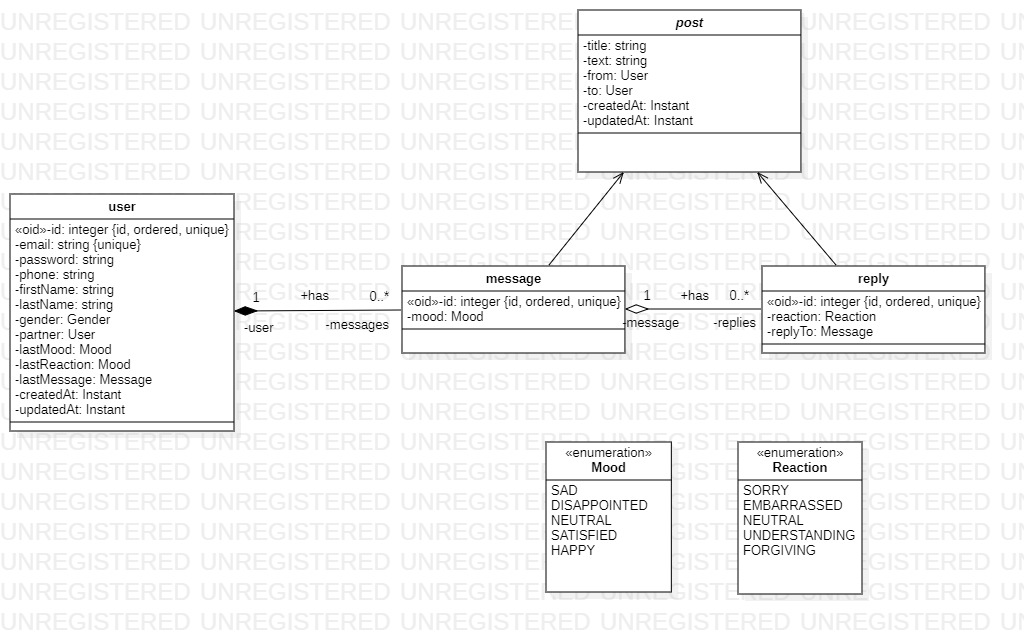
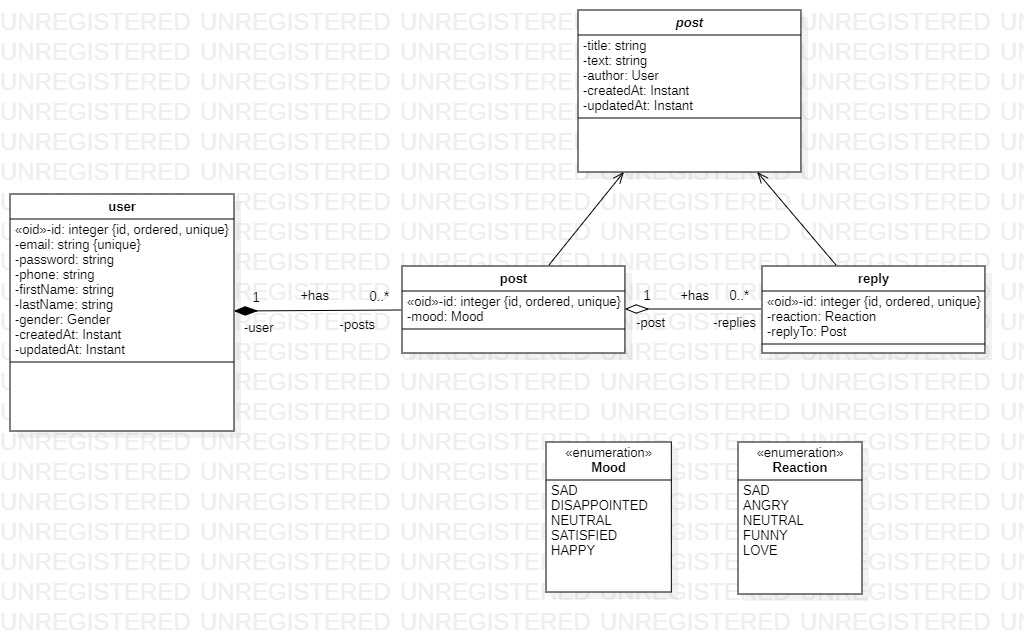
reply controller done

diff --git a/src/main/java/com/saurs/talktome/controllers/ReplyController.java b/src/main/java/com/saurs/talktome/controllers/ReplyController.java
@@ -1,0 +1,96 @@
+package com.saurs.talktome.controllers;
+
+import com.saurs.talktome.dtos.PostDTO;
+import com.saurs.talktome.dtos.ReplyDTO;
+import com.saurs.talktome.models.Post;
+import com.saurs.talktome.models.Reply;
+import com.saurs.talktome.repositories.PostRepository;
+import com.saurs.talktome.repositories.ReplyRepository;
+import com.saurs.talktome.services.PostService;
+import com.saurs.talktome.services.ReplyService;
+import org.springframework.beans.factory.annotation.Autowired;
+import org.springframework.data.domain.PageRequest;
+import org.springframework.http.ResponseEntity;
+import org.springframework.web.bind.annotation.*;
+import org.springframework.web.servlet.support.ServletUriComponentsBuilder;
+
+import java.net.URI;
+import java.util.List;
+
+@RestController
+@RequestMapping(value = "/replies")
+public class ReplyController {
+  
+  @Autowired
+  private ReplyService service;
+
+  @Autowired
+  private ReplyRepository repository;
+
+  @GetMapping
+  public ResponseEntity<List<ReplyDTO>> getAllReplies(@RequestParam(value = "page", defaultValue = "0") Integer page,
+                                                      @RequestParam(value = "size", defaultValue = "20") Integer size) {
+    List<ReplyDTO> replies = service.findAll(PageRequest.of(page, size));
+    return ResponseEntity.ok().body(replies);
+  }
+
+  @GetMapping("/{id}")
+  public ResponseEntity<ReplyDTO> getReplyById(@PathVariable Long id) {
+    ReplyDTO reply = service.findById(id);
+     if (reply == null) {
+      return ResponseEntity.notFound().build();
+     }
+     return ResponseEntity.ok().body(reply);
+  }
+
+  @GetMapping("/user/{userId}")
+  public ResponseEntity<List<ReplyDTO>> getRepliesFromUser(
+          @PathVariable Long userId,
+          @RequestParam(value = "page", defaultValue = "0") Integer page,
+          @RequestParam(value = "size", defaultValue = "20") Integer size) {
+    List<ReplyDTO> replies = service.findAllByAuthor(userId, PageRequest.of(page, size));
+     return ResponseEntity.ok().body(replies);
+  }
+
+  @GetMapping("/post/{postId}")
+  public ResponseEntity<List<ReplyDTO>> getRepliesOfPost(
+          @PathVariable Long postId,
+          @RequestParam(value = "page", defaultValue = "0") Integer page,
+          @RequestParam(value = "size", defaultValue = "20") Integer size) {
+    List<ReplyDTO> replies = service.findAllByPost(postId, PageRequest.of(page, size));
+    return ResponseEntity.ok().body(replies);
+  }
+
+  @PostMapping("/reply-to/{postId}")
+  public ResponseEntity<ReplyDTO> createReply(@RequestBody Reply reply, @PathVariable Long postId) {
+    // TODO get authenticated user
+    Reply newReply = service.addReply(reply, userId, postId);
+    URI uri = ServletUriComponentsBuilder
+    .fromCurrentRequest()
+    .path("/{userId}")
+    .buildAndExpand(newReply.getId())
+    .toUri();
+
+    ReplyDTO replyDto = repository.findById(newReply.getId()).map(ReplyDTO::converter).get();
+
+    return ResponseEntity.created(uri).body(replyDto);
+  }
+
+  @PutMapping("/{id}")
+  public ResponseEntity<ReplyDTO> updateReply(@RequestBody Reply reply, @PathVariable Long id) {
+    // TODO get authenticated user and check if it's him
+
+    Reply updatedReply = service.updateReply(reply, id);
+
+    ReplyDTO replyDto = repository.findById(updatedReply.getId()).map(ReplyDTO::converter).get();
+    return ResponseEntity.ok().body(replyDto);
+  }
+
+  @DeleteMapping("/{id}")
+  public ResponseEntity<Void> deleteReply(@PathVariable Long id) {
+    // TODO get authenticated user and check if it's him
+
+    service.deleteReply(id);
+    return ResponseEntity.noContent().build();
+  }
+}

diff --git a/src/main/java/com/saurs/talktome/controllers/PostController.java b/src/main/java/com/saurs/talktome/controllers/PostController.java
@@ -15,7 +15,7 @@ import com.saurs.talktome.repositories.PostRepository;
 import com.saurs.talktome.services.PostService;
 
 @RestController
-@RequestMapping(value = "/api/posts")
+@RequestMapping(value = "/posts")
 public class PostController {
   
   @Autowired
@@ -26,7 +26,7 @@ public class PostController {
 
   @GetMapping
   public ResponseEntity<List<PostDTO>> getAllPosts(@RequestParam(value = "page", defaultValue = "0") Integer page,
-                                                      @RequestParam(value = "size", defaultValue = "20") Integer size) {
+                                                   @RequestParam(value = "size", defaultValue = "20") Integer size) {
     List<PostDTO> posts = service.findAll(PageRequest.of(page, size));
     return ResponseEntity.ok().body(posts);
   }
@@ -40,16 +40,18 @@ public class PostController {
      return ResponseEntity.ok().body(post);
   }
 
-  @GetMapping("/sent/user/{userId}")
-  public ResponseEntity<List<PostDTO>> getPostsFromUser(@PathVariable Long userId,
-                                                           @RequestParam(value = "page", defaultValue = "0") Integer page,
-                                                           @RequestParam(value = "size", defaultValue = "20") Integer size) {
+  @GetMapping("/user/{userId}")
+  public ResponseEntity<List<PostDTO>> getPostsFromUser(
+          @PathVariable Long userId,
+          @RequestParam(value = "page", defaultValue = "0") Integer page,
+          @RequestParam(value = "size", defaultValue = "20") Integer size) {
     List<PostDTO> posts = service.findAllByAuthor(userId, PageRequest.of(page, size));
      return ResponseEntity.ok().body(posts);
   }
 
-  @PostMapping("/user/{userId}/post")
-  public ResponseEntity<PostDTO> createPost(@RequestBody Post post, @PathVariable Long userId) {
+  @PostMapping("/new")
+  public ResponseEntity<PostDTO> createPost(@RequestBody Post post) {
+    // TODO get authenticated user
     Post newPost = service.addPost(post, userId);
     URI uri = ServletUriComponentsBuilder
     .fromCurrentRequest()
@@ -57,21 +59,22 @@ public class PostController {
     .buildAndExpand(newPost.getId())
     .toUri();
 
-    PostDTO msgDto = repository.findById(newPost.getId()).map(PostDTO::converter).get();
+    PostDTO postDto = repository.findById(newPost.getId()).map(PostDTO::converter).get();
 
-    return ResponseEntity.created(uri).body(msgDto);
+    return ResponseEntity.created(uri).body(postDto);
   }
 
   @PutMapping("/{id}")
   public ResponseEntity<PostDTO> updatePost(@RequestBody Post post, @PathVariable Long id) {
+    // TODO get authenticated user and check if it's him
     Post updatedPost = service.updatePost(post, id);
-
-    PostDTO msgDto = repository.findById(updatedPost.getId()).map(PostDTO::converter).get();
-    return ResponseEntity.ok().body(msgDto);
+    PostDTO postDto = repository.findById(updatedPost.getId()).map(PostDTO::converter).get();
+    return ResponseEntity.ok().body(postDto);
   }
 
   @DeleteMapping("/{id}")
   public ResponseEntity<Void> deletePost(@PathVariable Long id) {
+    // TODO get authenticated user and check if it's him
     service.deletePost(id);
     return ResponseEntity.noContent().build();
   }

diff --git a/src/main/java/com/saurs/talktome/services/ReplyService.java b/src/main/java/com/saurs/talktome/services/ReplyService.java
@@ -1,9 +1,26 @@
 package com.saurs.talktome.services;
 
+import com.saurs.talktome.dtos.PostDTO;
+import com.saurs.talktome.dtos.ReplyDTO;
+import com.saurs.talktome.models.Post;
+import com.saurs.talktome.models.Reply;
+import com.saurs.talktome.models.User;
+import com.saurs.talktome.repositories.PostRepository;
+import com.saurs.talktome.repositories.UserRepository;
+import com.saurs.talktome.services.exceptions.DatabaseException;
+import com.saurs.talktome.services.exceptions.ObjectNotFoundException;
+import com.saurs.talktome.utils.ServiceUtils;
+import org.springframework.beans.BeanUtils;
 import org.springframework.beans.factory.annotation.Autowired;
+import org.springframework.dao.DataIntegrityViolationException;
+import org.springframework.data.domain.Pageable;
 import org.springframework.stereotype.Service;
 
 import com.saurs.talktome.repositories.ReplyRepository;
+
+import java.util.List;
+import java.util.Optional;
+import java.util.stream.Collectors;
 
 @Service
 public class ReplyService {
@@ -11,5 +28,50 @@ public class ReplyService {
   @Autowired
   ReplyRepository repository;
 
+  @Autowired
+  private UserRepository userRepository;
+
+  @Autowired
+  private PostRepository postRepository;
+
+  public List<ReplyDTO> findAll (Pageable pageable) {
+    return repository.findAll(pageable).stream().map(ReplyDTO::converter).collect(Collectors.toList());
+  }
+
+  public ReplyDTO findById(Long id) {
+    Optional<ReplyDTO> getReply = repository.findById(id).map(ReplyDTO::converter);
+    return getReply.orElseThrow(() -> new ObjectNotFoundException(id));
+  }
+
+  public List<ReplyDTO> findAllByAuthor(Long id, Pageable pageable) {
+    return repository.findAllByAuthorId(id, pageable).stream().map(ReplyDTO::converter).collect(Collectors.toList());
+  }
+
+  public List<ReplyDTO> findAllByPost(Long id, Pageable pageable) {
+    return repository.findAllByPostId(id, pageable).stream().map(ReplyDTO::converter).collect(Collectors.toList());
+  }
+
+  public Reply addReply(Reply obj, Long authorId, Long postId) {
+    User author = userRepository.findById(authorId).orElseThrow(() -> new ObjectNotFoundException(authorId));
+    Post post = postRepository.findById(postId).orElseThrow(() -> new ObjectNotFoundException(postId));
+    post.getReplies().add(obj);
+    obj.setAuthor(author);
+    obj.setReplyTo(post);
+    return repository.save(obj);
+  }
+
+  public Reply updateReply(Reply obj, Long id) {
+    Optional<Reply> oldReply = repository.findById(id);
+    BeanUtils.copyProperties(obj, oldReply.orElseThrow(() -> new ObjectNotFoundException(id)), ServiceUtils.getNullPropertyNames(obj));
+    return repository.save(oldReply.get());
+  }
+
+  public void deleteReply(Long id) {
+    try {
+      repository.deleteById(id);
+    } catch (DataIntegrityViolationException e) {
+      throw new DatabaseException(e.getCause());
+    }
+  }
 
 }

diff --git a/src/main/java/com/saurs/talktome/services/UserService.java b/src/main/java/com/saurs/talktome/services/UserService.java
@@ -30,7 +30,10 @@ public class UserService {
           PasswordEncoderFactories.createDelegatingPasswordEncoder();
 
   public List<UserDTO> findAll(Pageable pageable) {
-    return repository.findAll(pageable).stream().map(UserDTO::converter).collect(Collectors.toList());
+    return repository.findAll(pageable)
+            .stream()
+            .map(UserDTO::converter)
+            .collect(Collectors.toList());
   }
 
   public UserDTO findById(Long id) {
@@ -44,12 +47,16 @@ public class UserService {
   }
 
   public User updateUser(User obj, Long id) {
+    // TODO get authenticated user and check if it's him
     Optional<User> oldUser = repository.findById(id);
-    BeanUtils.copyProperties(obj, oldUser.orElseThrow(() -> new ObjectNotFoundException(id)), ServiceUtils.getNullPropertyNames(obj));
+    BeanUtils.copyProperties(obj, oldUser.orElseThrow(
+            () -> new ObjectNotFoundException(id)),
+            ServiceUtils.getNullPropertyNames(obj));
     return repository.save(oldUser.get());
   }
 
   public void deleteUser(Long id) {
+    // TODO get authenticated user and check if it's him
     try {
       User user = repository.findById(id).orElseThrow(() -> new ObjectNotFoundException(id));
       repository.deleteById(id);

diff --git a/src/main/java/com/saurs/talktome/repositories/ReplyRepository.java b/src/main/java/com/saurs/talktome/repositories/ReplyRepository.java
@@ -1,9 +1,20 @@
 package com.saurs.talktome.repositories;
 
+import com.saurs.talktome.models.Post;
+import org.springframework.data.domain.Pageable;
 import org.springframework.data.jpa.repository.JpaRepository;
 
 import com.saurs.talktome.models.Reply;
+import org.springframework.data.jpa.repository.Query;
+
+import java.util.List;
 
 public interface ReplyRepository extends JpaRepository<Reply, Long> {
+
+    @Query("select r from Reply r where r.author.id = ?1")
+    List<Reply> findAllByAuthorId(Long userId, Pageable pageable);
+
+    @Query("select r from Reply r where r.replyTo.id = ?1")
+    List<Reply> findAllByPostId(Long postId, Pageable pageable);
   
 }

diff --git a/src/main/java/com/saurs/talktome/dtos/ReplyDTO.java b/src/main/java/com/saurs/talktome/dtos/ReplyDTO.java
@@ -2,6 +2,7 @@ package com.saurs.talktome.dtos;
 
 import java.time.LocalDateTime;
 
+import com.saurs.talktome.models.User;
 import org.hibernate.annotations.CreationTimestamp;
 import org.hibernate.annotations.UpdateTimestamp;
 import org.modelmapper.ModelMapper;
@@ -39,5 +40,10 @@ public class ReplyDTO {
   public static ReplyDTO converter(Reply m) {
     ModelMapper modelMapper = new ModelMapper();
     return modelMapper.map(m, ReplyDTO.class);
+  }
+
+  public static Reply converterToEntity(ReplyDTO dto) {
+    ModelMapper modelMapper = new ModelMapper();
+    return modelMapper.map(dto, Reply.class);
   }
 }

diff --git a/src/main/java/com/saurs/talktome/controllers/exceptions/ControllerExceptionHandler.java b/src/main/java/com/saurs/talktome/controllers/exceptions/ControllerExceptionHandler.java
@@ -22,7 +22,12 @@ public class ControllerExceptionHandler {
 
     HttpStatus status = HttpStatus.NOT_FOUND;
 
-    StandardError err = new StandardError(Instant.now(), status.value(), error, e.getMessage(), request.getRequestURI());
+    StandardError err = new StandardError(
+            Instant.now(),
+            status.value(),
+            error,
+            e.getMessage(),
+            request.getRequestURI());
 
     return ResponseEntity.status(status).body(err);
   }

diff --git a/src/main/java/com/saurs/talktome/controllers/UserController.java b/src/main/java/com/saurs/talktome/controllers/UserController.java
@@ -14,7 +14,7 @@ import com.saurs.talktome.models.User;
 import com.saurs.talktome.services.UserService;
 
 @RestController
-@RequestMapping(value = "/api/users")
+@RequestMapping(value = "/users")
 public class UserController {
   
   @Autowired
